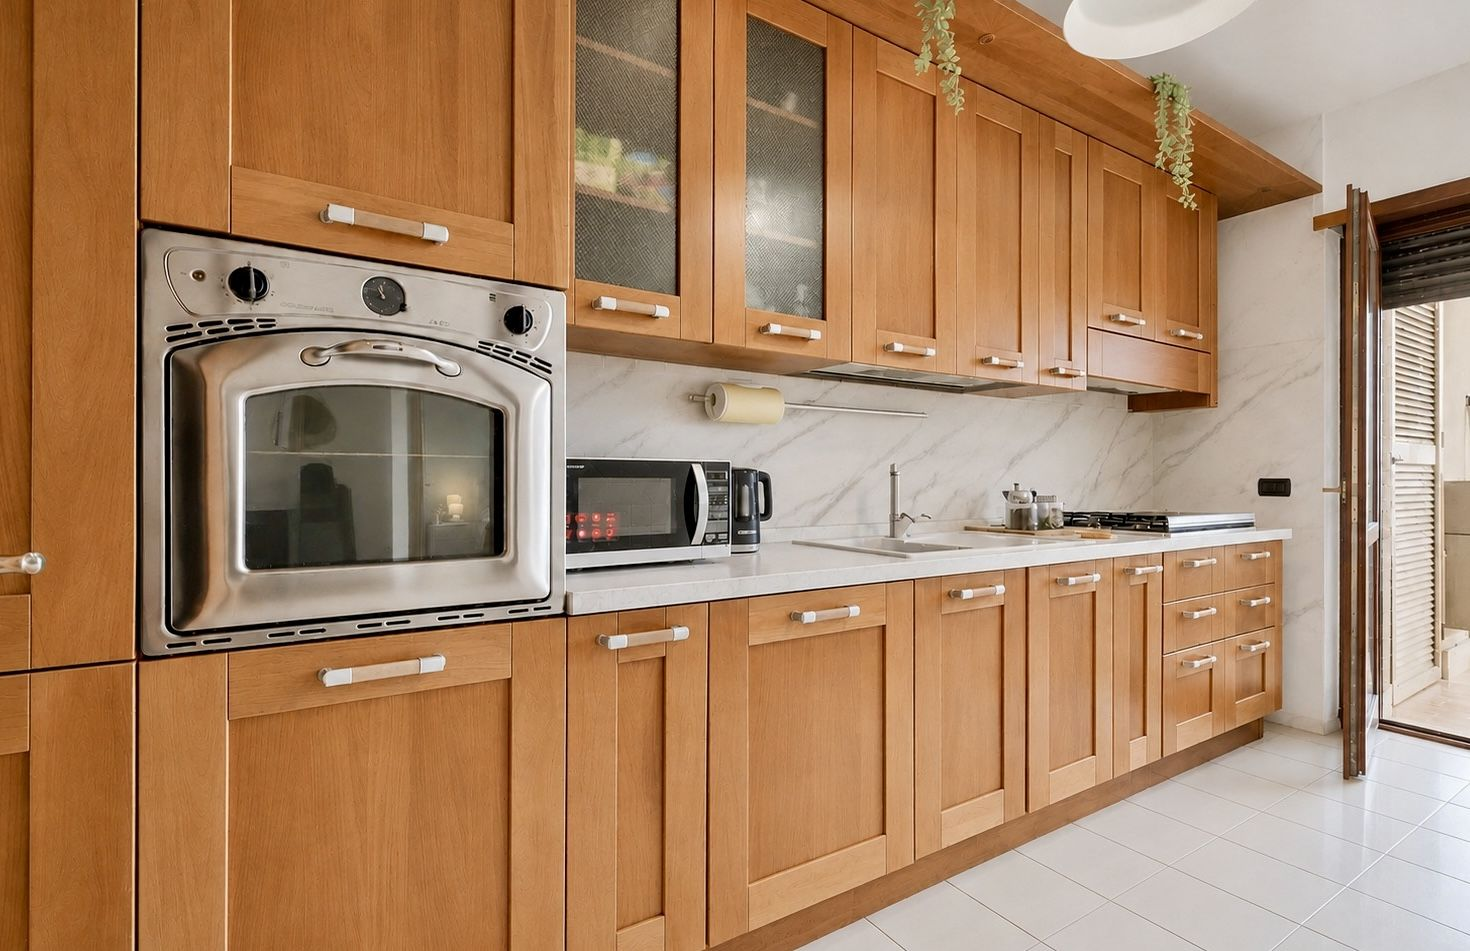
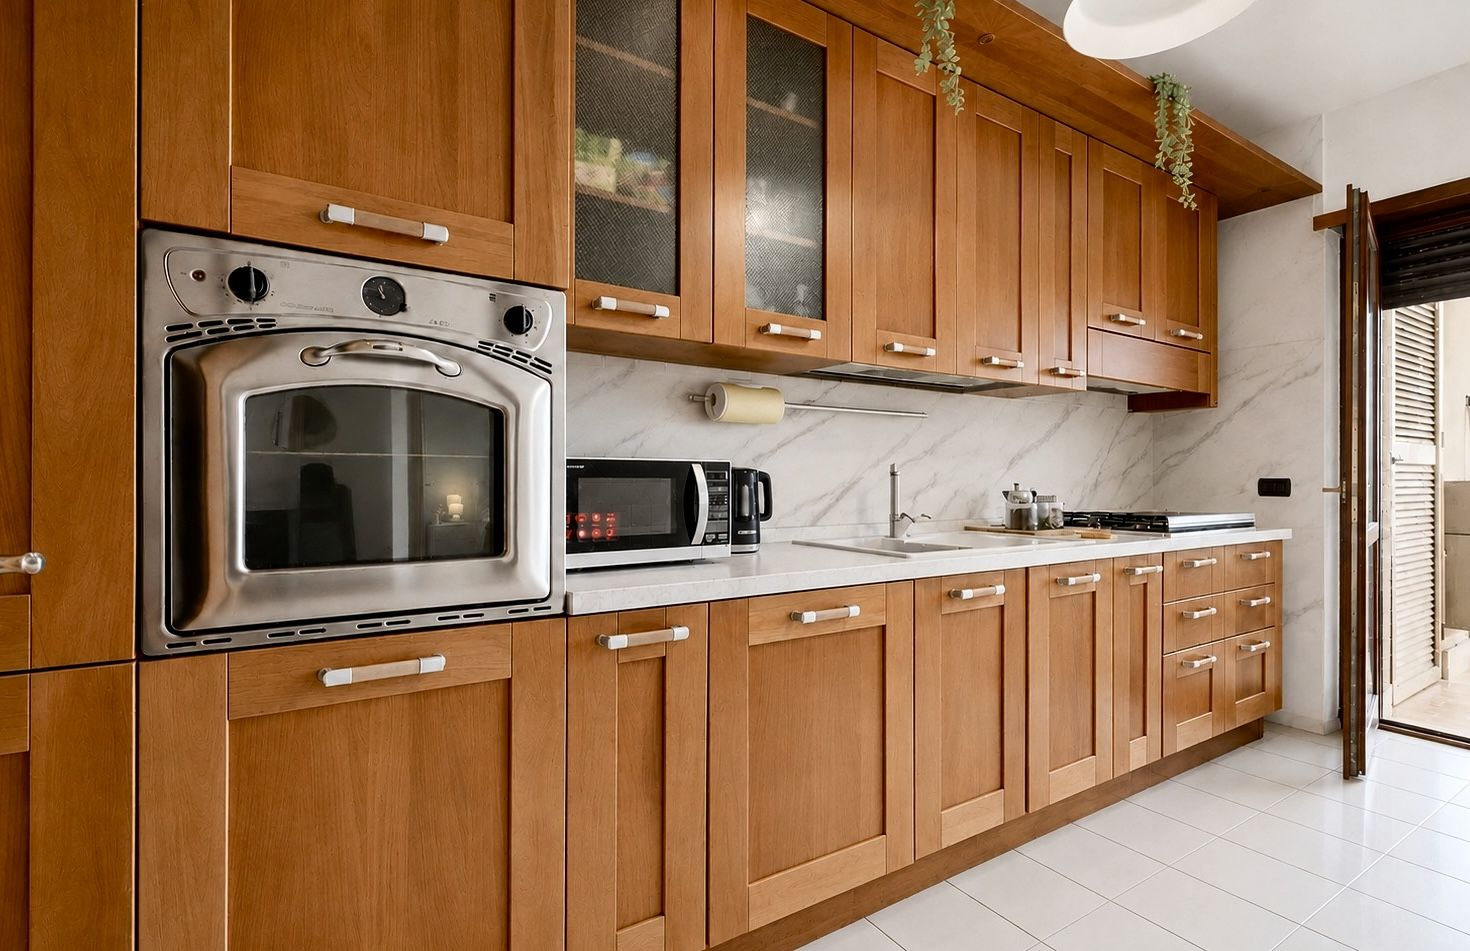
Mantegna: aggiornata seconda foto 'dopo' della cucina
Claude-Session: https://claude.ai/code/session_01Bvn71NShyh76c8txYLHMM4

diff --git a/index.html b/index.html
@@ -757,7 +757,7 @@ footer .wrap{display:flex;justify-content:space-between;gap:20px;flex-wrap:wrap;
    ========================================================= */
 const CONFIG = {
   // cambia questo numero quando sostituisci una foto con lo stesso nome (forza il browser a ricaricarla)
-  versioneFoto: "6",
+  versioneFoto: "7",
   // Video di Roma in apertura (Pexels, gratuito). Se vuoi usare il tuo: "img/roma.mp4"
   heroVideo: "https://videos.pexels.com/video-files/29947195/12852219_2560_1440_30fps.mp4",
   heroImage: "https://images.pexels.com/videos/29947195/central-rome-citta-del-vaticano-classic-italy-daybreak-29947195.jpeg?auto=compress&w=1920",  // mostrata mentre il video carica
